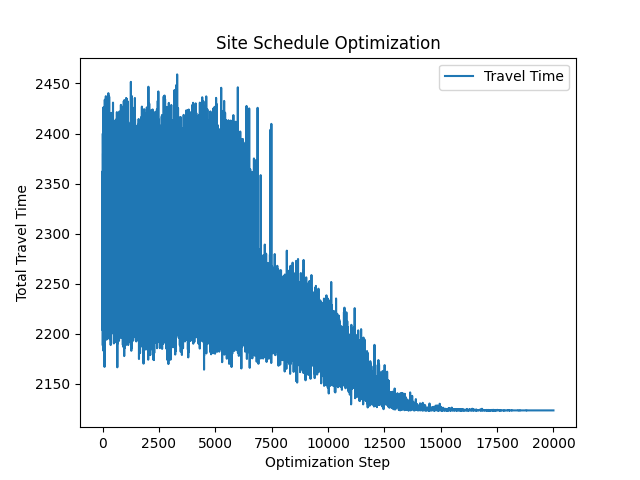
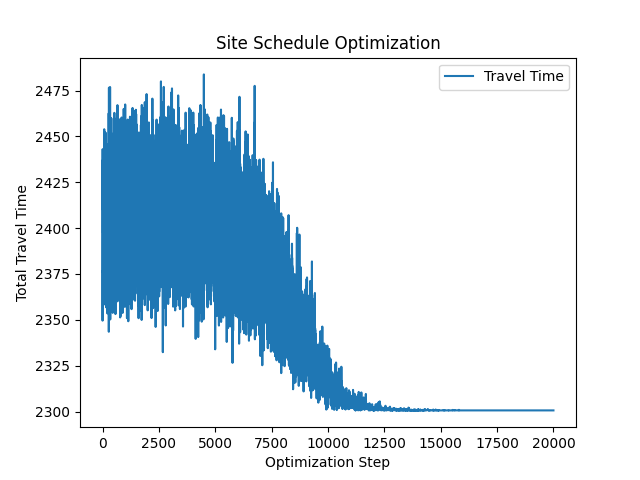
Add some cool new features

diff --git a/solve.py b/solve.py
@@ -1,14 +1,20 @@
 import sys
 import os
 import math
+import json
+import hashlib
+import pathlib
 import itertools
 import pprint
+import datetime
+import dateutil.parser
 
 import numpy as np
 import pandas as pd
 import matplotlib.pyplot as plt
 import click
 import requests
+import humanize
 
 
 def in_range(low, high):
@@ -22,13 +28,28 @@ def in_range(low, high):
     return validate_range
 
 
+def parse_datetime_str(ctx, param, value):
+    if value is None:
+        return None
+    try:
+        dt = dateutil.parser.parse(value)
+        if dt.tzinfo is None:
+            # Attach current time zone if not present
+            dt = dt.astimezone()
+        return dt
+    except:
+        raise click.BadParameter(
+            f"Could not parse datetime from '{value}' ", ctx, param
+        )
+
+
 @click.command(
     name="solve",
     help="Find a multi-day schedule optimizer for visiting survey locations.",
     context_settings={"show_default": True},
 )
 @click.option(
-    "-s",
+    "-i",
     "--site-data",
     "sites_file",
     required=True,
@@ -116,11 +137,32 @@ def in_range(low, high):
     help="Bing Maps API Key used to auto-generate cost matrix using distances.",
 )
 @click.option(
-    "--cost-property",
-    "cost_property",
+    "--cost-type",
+    "cost_type",
     default="time",
     type=click.Choice(["distance", "time"]),
     help="Compute cost matrix using distances or travel time.",
+)
+@click.option(
+    "-s",
+    "--start-datetime",
+    "start_datetime",
+    default=None,
+    type=str,
+    callback=parse_datetime_str,
+    help="The date and time of the begin of the schedule.",
+)
+@click.option(
+    "-dc",
+    "--disable-cache",
+    is_flag=True,
+    help="Disables any caching.",
+)
+@click.option(
+    "-iN",
+    "--ignore-node-cost",
+    is_flag=True,
+    help="Ignores the node cost values during calculation caching.",
 )
 def find_optimal_scheduling(
     sites_file,
@@ -134,18 +176,21 @@ def find_optimal_scheduling(
     quiet=False,
     bing_maps_api_key=None,
     bing_travel_mode="driving",
-    cost_property="time",
+    cost_type="time",
+    start_datetime=None,
+    disable_cache=False,
+    ignore_node_cost=False,
 ):
     verbose = not quiet
 
-    sites = load_site_data(sites_file)
+    sites, C_node = load_site_data(sites_file, ignore_node_cost)
 
     if verbose:
         print("sites =")
         pprint.pprint(sites, indent=4)
 
     if costs_file:
-        C = load_cost_data(costs_file, cost_property)
+        C_edge = load_cost_data(costs_file, cost_type)
     elif bing_maps_api_key:
         if not _check_can_use_bing(sites):
             raise click.BadArgumentUsage(
@@ -157,8 +202,12 @@ def find_optimal_scheduling(
                     sites_file
                 )
             )
-        C = bing_maps_cost_data(
-            sites, bing_travel_mode, cost_property, bing_maps_api_key
+        C_edge = get_bing_maps_edge_costs(
+            sites=sites,
+            travel_mode=bing_travel_mode,
+            cost_type=cost_type,
+            start_time=start_datetime,
+            api_key=bing_maps_api_key,
         )
     else:
         raise click.BadArgumentUsage(
@@ -166,18 +215,22 @@ def find_optimal_scheduling(
             Must pass either a cost matrix using '--costs-data' option or use
             the BING Maps API to compute a cost matrix by using '--bing-maps-api-key',
             '--bing-travel-mode', and '--bing-cost' options.
+
+            You can also set the environmental variable `BING_MAPS_API_KEY`.
             """
         )
 
     if verbose:
-        print("C =")
-        pprint.pprint(C)
+        print("C_edge =")
+        pprint.pprint(C_edge)
+        print("C_node =")
+        pprint.pprint(C_node)
 
-    n_sites = len(C)
+    n_sites = len(C_edge)
     n_slots = max_stops_per_day * n_days
     print_interval = annealing_iters // 10
 
-    if len(C) != len(sites):
+    if len(C_edge) != len(sites):
         raise click.BadArgumentUsage(
             """
             The sites data and costs data do not contain the same number of sites.
@@ -203,11 +256,16 @@ def find_optimal_scheduling(
     if verbose:
         print("initial_state =\n", state)
 
-    annealing_scale = total_cost(C, state)
+    annealing_scale = total_cost(C_edge, C_node, state)
 
     # Build the schedule for the annealing parameter
+    # final = 15 / (1 - annealing_param_decay)
+    # annealing_schedule = annealing_scale * np.logspace(
+    #     start=0, stop=final, num=annealing_iters, base=annealing_param_decay
+    # )
+
     annealing_schedule = annealing_scale * np.logspace(
-        start=0, stop=1100, num=annealing_iters, base=annealing_param_decay
+        start=0, stop=20, num=annealing_iters, base=0.5
     )
 
     #
@@ -243,9 +301,13 @@ def find_optimal_scheduling(
 
     for i, annealing_param in enumerate(annealing_schedule):
         for (day1, stop1, day2, stop2) in zip(*rand_dofs()):
-            C1 = daily_cost(C, state[day1]) + daily_cost(C, state[day2])
+            C1 = daily_cost(C_edge, C_node, state[day1]) + daily_cost(
+                C_edge, C_node, state[day2]
+            )
             swap(day1, stop1, day2, stop2)
-            C2 = daily_cost(C, state[day1]) + daily_cost(C, state[day2])
+            C2 = daily_cost(C_edge, C_node, state[day1]) + daily_cost(
+                C_edge, C_node, state[day2]
+            )
             dC = C2 - C1
 
             # Stochastically keep (+) change in E (total cost).
@@ -254,7 +316,7 @@ def find_optimal_scheduling(
             if probability(dC, annealing_param) <= np.random.uniform(0, 1):
                 swap(day1, stop1, day2, stop2)
 
-        cost_history[i] = total_cost(C, state)
+        cost_history[i] = total_cost(C_edge, C_node, state)
         if verbose and i % print_interval == print_interval - 1:
             mean_cost = np.mean(cost_history[i - print_interval + 1 : i])
             print(
@@ -263,7 +325,7 @@ def find_optimal_scheduling(
                 )
             )
 
-    save_results(sites, state, cost_history, output_base)
+    save_results(sites, state, cost_history, output_base, C_edge, C_node)
 
 
 def initial_state(n_sites, n_days, max_stops_per_day):
@@ -289,10 +351,14 @@ def initial_state(n_sites, n_days, max_stops_per_day):
     return np.hstack((zero_buf, slots, zero_buf)).astype(int)
 
 
-def save_results(sites, state, cost, output_base):
+def save_results(sites, state, cost_history, output_base, C_edge, C_node):
     print("======== SOLUTION =========")
     for day_i, stops in enumerate(state):
-        print("Day", day_i + 1)
+        cost_disp = humanize.precisedelta(
+            value=datetime.timedelta(minutes=daily_cost(C_edge, C_node, stops)),
+            minimum_unit="minutes",
+        )
+        print("Day {} ({})".format(day_i + 1, cost_disp))
         for j, site_j in enumerate(stops[stops >= 0]):
             print(f"{j+1}.", sites[site_j]["name"])
         print()
@@ -311,8 +377,8 @@ def save_results(sites, state, cost, output_base):
     df["stop"] = stop
 
     df.to_csv(output_base + ".csv", index=False)
-
-    plt.plot(np.linspace(0, len(cost), num=len(cost)), cost, label="Travel Time")
+    n_steps = len(cost_history)
+    plt.plot(np.linspace(0, n_steps, num=n_steps), cost_history, label="Travel Time")
     plt.xlabel("Optimization Step")
     plt.ylabel("Total Travel Time")
     plt.title("Site Schedule Optimization")
@@ -320,21 +386,59 @@ def save_results(sites, state, cost, output_base):
     plt.savefig(output_base + ".png")
 
 
-def load_site_data(filepath):
-    return pd.read_csv(filepath).to_dict(orient="records")
+def load_site_data(filepath, ignore_node_cost):
+    df = pd.read_csv(filepath)
+    costs = np.zeros(len(df))
+    if "cost" in df.columns and not ignore_node_cost:
+        costs = df["cost"].values
+    return df.to_dict(orient="records"), costs
 
 
-def load_cost_data(filepath, cost_property):
+def load_cost_data(filepath, cost_type):
     df = pd.read_csv(filepath)
     i = df["site_1"].values
     j = df["site_2"].values
     n_sites = np.unique(np.concatenate((i, j))).size
     C = np.zeros(shape=(n_sites, n_sites))
-    C[i, j] = df[cost_property].values
+    C[i, j] = df[cost_type].values
     return C
 
 
-def bing_maps_cost_data(sites, travel_mode, cost_property, api_key):
+def daily_cost(C_edge, C_node, stops):
+    path = stops[stops > -1]
+    edges_cost = sum(C_edge[i, j] for i, j in _pairs(path))
+    nodes_cost = sum(C_node[i] for i in path) if C_node is not None else 0
+    return edges_cost + nodes_cost
+
+
+def total_cost(C_edge, C_node, state):
+    return sum(daily_cost(C_edge, C_node, stops) for stops in state)
+
+
+def get_bing_maps_edge_costs(
+    sites, travel_mode, cost_type, api_key, start_time=None, force=False
+):
+
+    # Caching saves us from making the same requests
+    # over and over during testing and development.
+    _cache_dir = pathlib.Path(".cache")
+
+    def _cache_key(d):
+        return hashlib.md5(json.dumps(d).encode()).hexdigest()
+
+    def _write_cache(key, resp_json):
+        if not _cache_dir.exists():
+            _cache_dir.mkdir()
+        cache_file = _cache_dir / f"{key}.json"
+        cache_file.write_text(json.dumps(resp_json))
+
+    def _read_cache(key):
+        cache_file = _cache_dir / f"{key}.json"
+        if not force and cache_file.exists():
+            print("BING Matrix read from cache")
+            return json.loads(cache_file.read_text())
+        return None
+
     try:
         url = (
             f"https://dev.virtualearth.net/REST/v1/Routes/DistanceMatrix?key={api_key}"
@@ -346,9 +450,16 @@ def bing_maps_cost_data(sites, travel_mode, cost_property, api_key):
             "destinations": sites,
         }
 
-        response = requests.post(url, json=payload)
-        response.raise_for_status()
-        data = response.json()
+        if start_time is not None:
+            payload["startTime"] = start_time.isoformat()
+
+        cache_key = _cache_key(payload)
+        data = _read_cache(cache_key)
+        if data is None:
+            response = requests.post(url, json=payload)
+            response.raise_for_status()
+            data = response.json()
+            _write_cache(cache_key, data)
 
         C = np.zeros((len(sites), len(sites)))
 
@@ -387,14 +498,6 @@ def _pairs(iterable):
     a, b = itertools.tee(iterable)
     next(b, None)
     return zip(a, b)
-
-
-def daily_cost(pair_cost, stops):
-    return sum(pair_cost[i, j] for i, j in _pairs(stops[stops > -1]))
-
-
-def total_cost(pair_cost, state):
-    return sum(daily_cost(pair_cost, stops) for stops in state)
 
 
 if __name__ == "__main__":
